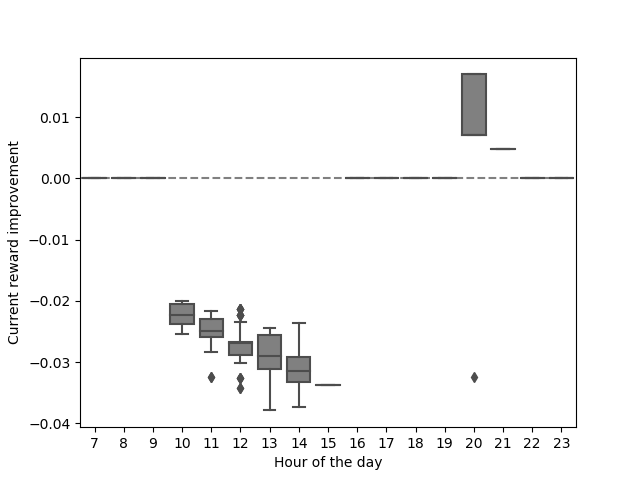
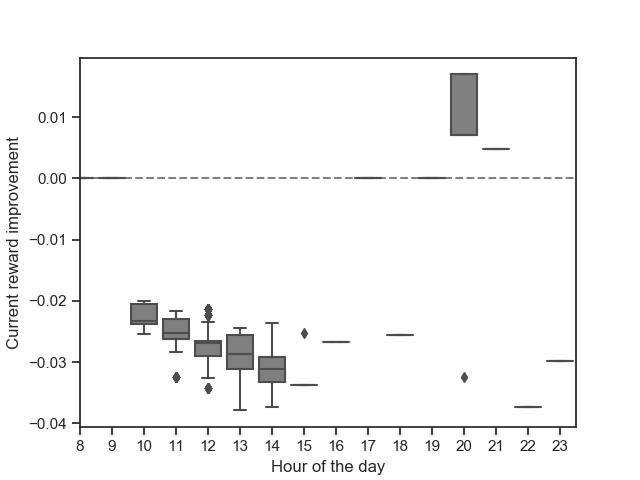
Update on Overleaf.

diff --git a/chapters/results.tex b/chapters/results.tex
@@ -146,19 +146,19 @@ By inspecting figure \ref{fig:results:configuration1} it is clear that the agent
 \end{figure}
 
 \subsection{Voltage violations}
-The reward function has an energy imbalance term during training that is meant to incentives the agent to shift energy consumption. However, the main goal of the agent is to keep the values for current and voltage within safety margins. Therefore, it is interesting to see the rewards of the trained model when only the voltage and current terms are considered. In other words, it is only penalised for violating safety margins for current and voltage in the grid. The trained model was tested for 100 episodes each consisting of 200 steps and evaluated
-in terms of voltage penalty and current penalty independently. The statistics for the hours with a non-zero reward using only voltage reward are presented in table \ref{table:results:configuration1_reward_100_episodes}. Note that every non-zero reward corresponds to a violation of voltage margin because only the voltage term is used to calculate the reward. The trained agent reduces the number of voltage safety margin violations by 21 \% from 1824 to 1435. This reduction is impressive since there is no guarantee that it is physically feasible to satisfy voltage safety margins given a demand flexibility of 10 \%. It is clear that there is no significant difference between the trained agent and the no agent scenario in terms of mean voltage reward. Still, the reduction in number of voltage violations means that the trained agent overall is performing better in the 100 episodes. 
+The reward function has an energy imbalance term during training that is meant to incentives the agent to shift energy consumption. However, the main goal of the agent is to keep the values for current and voltage within safety margins. Therefore, it is interesting to see the rewards of the trained model when only the voltage and current terms are considered. In other words, it is only penalised for violating safety margins for current and voltage in the grid. The trained model was tested for 500 episodes each consisting of 200 steps and evaluated
+in terms of voltage penalty and current penalty independently. The statistics for the hours with a non-zero reward using only voltage reward are presented in table \ref{table:results:configuration1_reward_500_episodes}. Note that every non-zero reward corresponds to a violation of voltage margin because only the voltage term is used to calculate the reward. The trained agent reduces the number of voltage safety margin violations by 13 \% from 8593 to 7484. This reduction is impressive since there is no guarantee that it is physically feasible to satisfy voltage safety margins given a demand flexibility of 10 \%. It is clear that there is no significant difference between the trained agent and the no agent scenario in terms of mean voltage reward. Still, the reduction in number of voltage violations means that the trained agent overall is performing better in the 500 episodes. 
 \begin{table}[h]
 \center
 \begin{tabular}{l|rrrrrrr}
          & count & mean   & std   & min    & 25\%   & 50\%   & 75\%   \\
 \hline
-Agent    & 1435  & -0.035 & 0.037 & -0.186 & -0.054 & -0.021 & -0.006 \\
-No agent & 1824  & -0.036 & 0.037 & -0.207 & -0.056 & -0.024 & -0.007 \\
+Agent    & 7484  & -0.033 & 0.035 & -0.189 & -0.049 & -0.021 & -0.007 \\
+No agent & 8593  & -0.035 & 0.037 & -0.186 & -0.054 & -0.022 & -0.006 \\
 \hline
 \end{tabular}
-\caption{Statistics of the voltage rewards given to the trained agent and no agent scenario over 100 episodes with 200 hours each}
-\label{table:results:configuration1_reward_100_episodes}
+\caption{Statistics of the voltage rewards given to the trained agent and no agent scenario over 500 episodes with 200 hours each}
+\label{table:results:configuration1_reward_500_episodes}
 \end{table}
 
 Figure \ref{fig:results:config1_voltage_boxplot} shows the voltage reward distribution for the trained agent and no agent scenario for hours with violations of voltage safety margins. These hours are termed critical since there would be voltage violations if no actions were taken. The trained agent is better in critical situations, as more of the rewards are centred closer to zero.
@@ -170,8 +170,8 @@ Figure \ref{fig:results:config1_voltage_boxplot} shows the voltage reward distri
     \label{fig:results:config1_voltage_boxplot}
 \end{figure}
 
-The statistics presented in table \ref{table:results:configuration1_reward_100_ep_preventive} show that the mean voltage penalty for the trained agent is reduced by 25 \% in critical hours. However, as table
-\ref{table:results:configuration1_reward_100_episodes} shows, the average voltage penalty of the trained agent is about the same as the no agent scenario. This means that there are situations where the trained agent pushes the voltage out of the safety margins.    
+The statistics presented in table \ref{table:results:configuration1_reward_500_ep_preventive} show that the mean voltage penalty for the trained agent is reduced by 17 \% in critical hours. However, as table
+\ref{table:results:configuration1_reward_500_episodes} shows, the average voltage penalty of the trained agent is about the same as the no agent scenario. This means that there are situations where the trained agent pushes the voltage out of the safety margins.    
 
 
 \begin{table}[h]
@@ -179,17 +179,17 @@ The statistics presented in table \ref{table:results:configuration1_reward_100_e
 \begin{tabular}{l|rrrrrrr}
          & count & mean   & std   & min    & 25\%   & 50\%   & 75\%   \\
 \hline
-Agent    & 1824 & -0.027 & 0.035 & -0.186 & -0.041 & -0.011 & 0.000  \\
-No agent & 1824 & -0.036 & 0.037 & -0.207 & -0.056 & -0.024 & -0.007 \\
+Agent    & 8593 & -0.029 & 0.034 & -0.190 & -0.044 & -0.015 & -0.003 \\
+No agent & 8593 & -0.035 & 0.037 & -0.186 & -0.054 & -0.022 & -0.006 \\
 \hline
 \end{tabular}
-\caption{Statistics of the voltage rewards given in critical hours to the trained agent and no agent scenario over 100 episodes simulation with 200 hours each}
-\label{table:results:configuration1_reward_100_ep_preventive}
+\caption{Statistics of the voltage rewards given in critical hours to the trained agent and no agent scenario over a 500 episodes simulation with 200 hours each}
+\label{table:results:configuration1_reward_500_ep_preventive}
 \end{table}
 
 
 
-All rewards in the no agent scenario for critical hours are sorted and plotted in figure \ref{fig:results:config1_sorted_voltage}. The corresponding rewards given to the trained agent are also plotted. This is done to see if the trained agent is better in very critical periods with high voltage penalty or if it performs well overall. The plot shows that the trained agent for the most part receives lower voltage penalties regardless of the size of the violation. Still, there are occasions where the trained agent is below the no agent scenario in figure \ref{fig:results:config1_sorted_voltage} which corresponds to periods where the trained agent aggravates the voltage magnitudes. The trained agent makes matters worse in 39\% of the critical hours, and increases the mean penalty with 19 \% in those hours. However, the trained agent improves the voltage margins in 61 \% of the critical hours, where it decreases the mean voltage penalty by 59 \%.
+All rewards in the no agent scenario for critical hours are sorted and plotted in figure \ref{fig:results:config1_sorted_voltage}. The corresponding rewards given to the trained agent are also plotted. This is done to see if the trained agent is better in very critical periods with high voltage penalty or if it performs well overall. The plot shows that the trained agent for the most part receives lower voltage penalties regardless of the size of the violation. Still, there are occasions where the trained agent is below the no agent scenario in figure \ref{fig:results:config1_sorted_voltage} which corresponds to periods where the trained agent aggravates the voltage magnitudes. The trained agent makes matters worse in 41\% of the critical hours, and increases the mean penalty with 13 \% in those hours. However, the trained agent improves the voltage margins in 59 \% of the critical hours, where it decreases the mean voltage penalty by 38 \%.
 
 
 
@@ -246,7 +246,7 @@ Figure \ref{fig:results:config1_150hour_bad_voltage} plots the voltage rewards i
 \end{figure}
 Table \ref{table:results:config1_150hour_bad_voltage} shows the statistics for the hours the trained agent and no-agent scenario violate voltage safety margins (non-zero rewards). The trained agent increase the number of voltage violation from 30 to 31. All of the hours the trained agent is worse in figure \ref{fig:results:config1_150hour_bad_voltage} correspond to hours of peak solar production. The spikes where it improves the situation correspond to periods with peak demand. As already mentioned, the trained agent has learned that it must decrease consumption in periods peak demand hours. On the contrary, it has not learned that it has to increase consumption in hours with heavy solar power production. In fact, it decreases the power consumption, which in turn makes the excess solar production even greater and thus increases voltage magnitudes in the grid.  
 
-Until now, the the trained agent has been evaluated in critical hours, where there would be a safety violation in the no agent scenario. However, the electric grid is within safety margins 91 \% of the time in the 100 episode simulation. It is very important that the trained agent finds appropriate behaviour in both non-critical and critical hours. Investigating the voltage penalty given to the agent in non-critical hours reveals that the agent pushes the voltages out of the safety margins 0.4 \% of the time. The worst of these violations are -0.002 in magnitude, which is quite small compared the violations in critical hours. In other words, the agent behaves well in non-critical hours in terms of voltage. 
+Until now, the the trained agent has been evaluated in critical hours, where there would be a safety violation in the no agent scenario. However, the electric grid is within safety margins 91 \% of the time in the 500 episode simulation. It is very important that the trained agent finds appropriate behaviour in both non-critical and critical hours. Investigating the voltage penalty given to the agent in non-critical hours reveals that the agent pushes the voltages out of the safety margins 0.3 \% of the time. The worst of these violations is -0.0007 in magnitude, which is negligible  compared the violations in critical hours. In other words, the agent behaves well in non-critical hours in terms of voltage. 
 \begin{table}[h]
 \center
 \begin{tabular}{l|rrrrrrr}
@@ -264,29 +264,29 @@ No agent & 30    & -0.043 & 0.033 & -0.109 & -0.061 & -0.038 & -0.017 \\
 
 
 \subsection{Current violations}\label{section:config1:current_violations}
-The trained agent is tested in a 100 episode simulation, each consisting of 200 hours, and evaluated in terms of violations of current safety margins in the power lines. Specifically, the current cost $C_{current}$ for a line carrying a current $I$ with capacity $I_{max}$ is $C_{current} = \max(0,I - I_{max})$ where $I_{max}$ is set to 90 \% of the line capacity. The total current cost is found by summing over all lines. Note that the terms \textit{cost} and \textit{reward} are used interchangeably, depending on what is most natural. In all cases the reward is the negative of the cost. The statistics for the current violation for the trained agent and no agent scenario are presented in table \ref{table:results:configuration1_reward_100_episodes_current}
+The trained agent is tested in a 500 episode simulation, each consisting of 200 hours, and evaluated in terms of violations of current safety margins in the power lines. Specifically, the current cost $C_{current}$ for a line carrying a current $I$ with capacity $I_{max}$ is $C_{current} = \max(0,I - I_{max})$ where $I_{max}$ is set to 90 \% of the line capacity. The total current cost is found by summing over all lines. Note that the terms \textit{cost} and \textit{reward} are used interchangeably, depending on what is most natural. In all cases the reward is the negative of the cost. The statistics for the current violation for the trained agent and no agent scenario are presented in table \ref{table:results:configuration1_reward_500_episodes_current}
 
 \begin{table}[h]
 \center
 \begin{tabular}{l|rrrrrrr}
          & count & mean   & std   & min    & 25\%   & 50\%   & 75\%   \\
 \hline
-Agent    & 356 & -0.184 & 0.135 & -0.532 & -0.286 & -0.156 & -0.067 \\
-No agent & 329 & -0.160 & 0.126 & -0.496 & -0.261 & -0.129 & -0.052 \\
+Agent    & 1538  & -0.167 & 0.141 & -0.585 & -0.258 & -0.129 & -0.054 \\
+No agent & 1300  & -0.168 & 0.135 & -0.564 & -0.257 & -0.156 & -0.045 \\
 \hline
 \end{tabular}
-\caption{Statistics of the current rewards given to the trained agent and no agent scenario over a 100 episodes simulation, each with a duration of 200 hours}
-\label{table:results:configuration1_reward_100_episodes_current}
+\caption{Statistics of the current rewards given to the trained agent and no agent scenario over a 500 episodes simulation, each with a duration of 200 hours}
+\label{table:results:configuration1_reward_500_episodes_current}
 \end{table}
-The trained agent increases the number of current violations by 8 \% from 329 to 356. It pushes the current values out of the safety margins 54 times during the simulation and pulls it into safety margins 27 times. In addition to causing more current violations, it increases the mean current penalty by 15 \%. In other words, there are more and stronger current violation with the trained agent than in the no agent scenario. The agent has not learned an appropriate behaviour to reduce current overloads in the lines. The hours in the simulation that have a current violation if no action is taken are termed critical hours. Figure \ref{fig:results:config1_100ep_boxplot_current} shows the distribution of the current reward for the trained agent and no agent scenario in critical hours. 
+The trained agent increases the number of current violations by 18 \% from 1300 to 1538. The mean magnitude of current violation is around the same in both scenarios. The agent has not learned an appropriate behaviour to reduce current overloads in the lines. The hours in the simulation that have a current violation if no action is taken are termed critical hours. Figure \ref{fig:results:config1_current_boxplot} shows the distribution of the current reward for the trained agent and no agent scenario in critical hours. 
 
 \begin{figure}[H]
     \center
-\includegraphics[height=8cm, width=12cm]{figures/config1_100ep_boxplot_current.png}
+\includegraphics[height=8cm, width=12cm]{figures/config1_current_boxplot.png}
     \caption[size = 9]{Box plot of the current reward for the trained agent and no agent scenario}
-    \label{fig:results:config1_100ep_boxplot_current}
+    \label{fig:results:config1_current_boxplot}
 \end{figure}
-Figure \ref{fig:results:config1_sorted_current} plots the current reward for critical hours in the 100 episode sorted from best to worse. The hour with the lowest current reward is the most critical hour. It is clear that the trained agent for the most part aggravates the situation. In fact, it only improves the situation in 9\% of the critical hours, which for the most part are less critical in terms of the size of the current reward. 
+Figure \ref{fig:results:config1_sorted_current} plots the current reward for critical hours in the 500 episode sorted from best to worse. The hour with the lowest current reward is the most critical hour. It is clear that the trained agent for the most part aggravates the situation. In fact, it only improves the situation in 4\% of the critical hours, which for the most part are less critical in terms of the size of the current reward. 
 
 \begin{figure}[H]
     \center
@@ -295,9 +295,7 @@ Figure \ref{fig:results:config1_sorted_current} plots the current reward for cri
     \label{fig:results:config1_sorted_current}
 \end{figure}
 
-
-
-Figure \ref{fig:results:config1_improvement_current} shows box plots for difference in current reward between the trained agent and the no agent scenario. This figure illustrates which hours of the day the agent performs best and worse. For current rewards, the trained agent is aggravating the situation in almost all hours. At hour 20 is the only time the agent improves the situation in terms of voltage magnitudes.
+Figure \ref{fig:results:config1_improvement_current} shows hourly box plots for difference in current reward between the trained agent and the no agent scenario. This figure illustrates which hours of the day the agent performs best and worse. For current rewards, the trained agent is aggravating the situation in almost all hours. Hour 20 is the only time the agent improves the situation in terms of current magnitudes. Inspection of the hours with violations indicates that it is during noon (peak solar production) that the overloads happen, as illustrated in figure \ref{fig:results:config1_bad_current}.
 
 \begin{figure}[h]
     \center
@@ -306,7 +304,6 @@ Figure \ref{fig:results:config1_improvement_current} shows box plots for differe
     \label{fig:results:config1_improvement_current}
 \end{figure}
 
-Inspection of the hours with violations reveals that it is during noon (peak solar production) that the overloads happen, as illustrated in figure \ref{fig:results:config1_bad_current}.
 
 
 \begin{figure}[H]
@@ -334,7 +331,7 @@ Peak solar production & Poor                  & Poor \\
 \caption{Behaviour of the agent in critical periods in terms of current and voltage safety margins}
 \label{table:results:config1_behaviour}
 \end{table}
- A summary of the performance in terms of voltage and current is presented in table \ref{table:results:config1_summary}. Overall, the trained agent reduces the number of voltage and current violations by 17\%, from 1791 to 2153. However, it increases the mean cost by 18 \% due to its poor behaviour in terms of avoiding current violations. Still, the trained agent is better in terms of the total cost received in the 100 episode simulation because voltage violations are more frequent. The total cost in terms of both current and voltage is reduced by 2.2 \% from 118.3 to 115.7.
+ A summary of the performance in terms of voltage and current is presented in table \ref{table:results:config1_summary}. Overall, the trained agent reduces the number of voltage and current violations by 10\%. However, it increases the mean cost by 5 \% due to its poor behaviour in terms of avoiding current violations. Still, the trained agent is better in terms of the total cost received in the 500 episode simulation because voltage violations are more frequent. The total cost in terms of both current and voltage is reduced by 3 \%.
 
 
 \begin{table}[h]
@@ -342,24 +339,21 @@ Peak solar production & Poor                  & Poor \\
 \begin{tabular}{l|lrrr}
 Type      &               & Agent          & No agent       & Change        \\
 \hline
-Current   & Violations    & 356            & 329            & 8\%            \\
-          & Mean cost     & 0,18           & 0,16           & 15 \%         \\
-          & Cost          & 65,5           & 52,6           & 24 \%         \\
+Current   & Violations    & 1538            & 1300            & 18\%            \\
+          & Mean cost     & 0,17           & 0,17           & 0 \%         \\
+          & Cost          & 256            & 218            & 17 \%         \\
           &               &                &                &               \\
-Voltage   & Violations    & 1435           & 1824           & -21\%          \\
-          & Mean  cost    & 0,035          & 0,036          & -3\%          \\
-          & Cost          & 50,2           & 65,7           & -24 \%        \\
+Voltage   & Violations    & 7484           & 8593           & -13\%          \\
+          & Mean  cost    & 0,033          & 0,035          & -6\%          \\
+          & Cost          & 249,9          & 304,5         & -18 \%        \\
           &               &                &                &               \\
-Total     & Violations    & 1791           & 2153           & -17\%          \\
-          & Mean cost     & 0.065          & 0.055          & 18 \%         \\
-\textbf{} & \textbf{Cost} & \textbf{115,7} & \textbf{118,3} & \textbf{-2\%} \\
+Total     & Violations    & 9022           & 9893           & -10\%          \\
+          & Mean cost     & 0.056          & 0.053          & 5 \%         \\
+\textbf{} & \textbf{Cost} & \textbf{505.9} & \textbf{522.5} & \textbf{-3\%} \\
 \hline
 \end{tabular}
 \caption{Summary of number of violations and mean costs in terms of current and voltage for the trained agent and the no agent scenario}
 \label{table:results:config1_summary}
 \end{table}
-
-
-
 
 \end{document}
